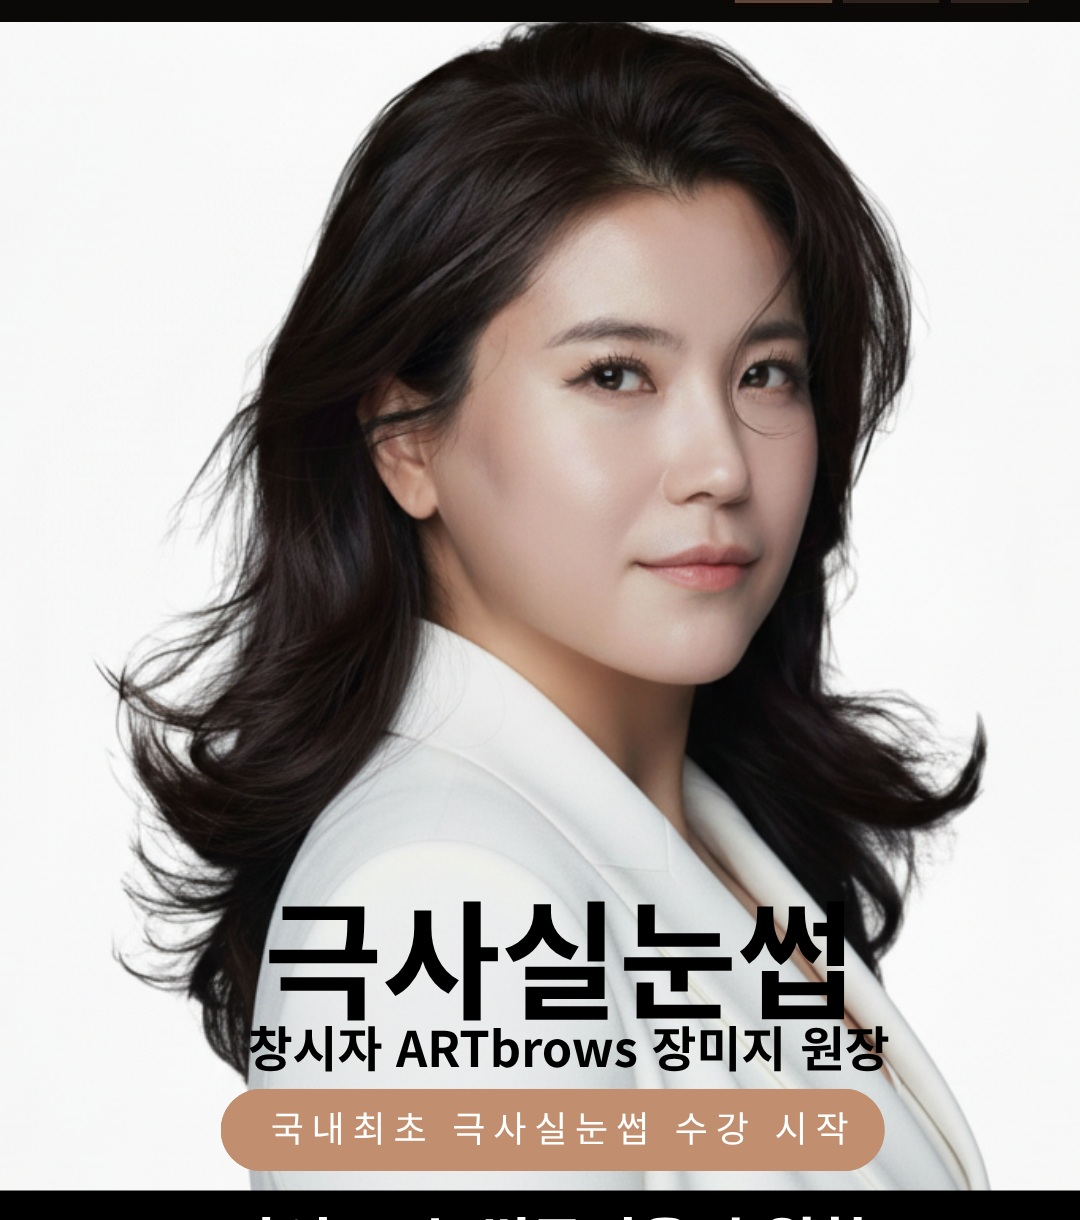
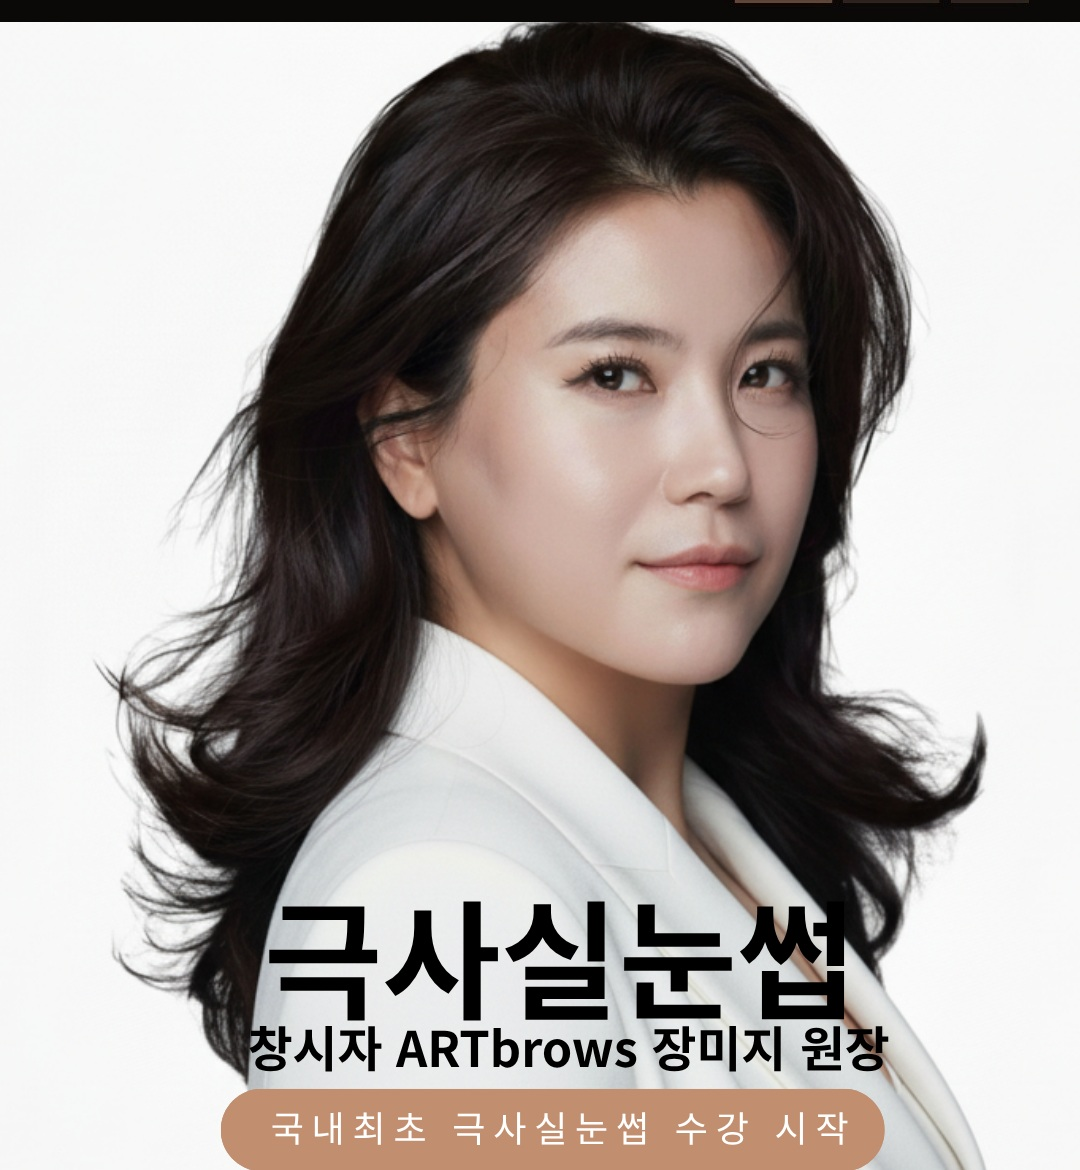
fix(preview/a): hero-full y_end 1320→1270 · 「반영구」 인트로 카피 중복 제거

diff --git a/app-next/src/app/HomePageMobile.tsx b/app-next/src/app/HomePageMobile.tsx
@@ -76,7 +76,7 @@ export default function HomePageMobile({ lang }: { lang: Lang }) {
           src={`${CANVA}/hero-full.jpg`}
           alt="극사실눈썹 · 창시자 ARTbrows 장미지 원장 · 국내최초 극사실눈썹 수강 시작"
           width={1080}
-          height={1220}
+          height={1170}
           style={{ width: '100%', height: 'auto', display: 'block' }}
         />
       </section>
